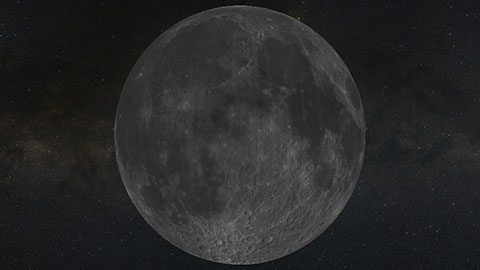
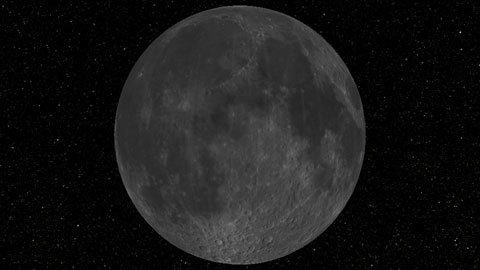
Updates to background and TIFF compression

diff --git a/scenes.html b/scenes.html
@@ -15,32 +15,38 @@
 
 <h2>The Data</h2>
 
-<p>Here are direct links to all of SCM TIFF data files used here:</p>
+<p>The panoramas use lossy JPEG compression internally. The panoramic SCM TIFFs used here may be downloaded here:</p>
 
 <blockquote><table>
-<tr><td><a href="http://cct.lsu.edu/~rkooima/data/Bluebonnet-0-L-256-5.tif">Bluebonnet-0-L-256-5.tif</a></td><td>1.0&thinsp;<small>GB</small></td></tr>
-<tr><td><a href="http://cct.lsu.edu/~rkooima/data/Bluebonnet-0-R-256-5.tif">Bluebonnet-0-R-256-5.tif</a></td><td>1.0&thinsp;<small>GB</small></td></tr>
-<tr><td><a href="http://cct.lsu.edu/~rkooima/data/Bluebonnet-3-L-256-5.tif">Bluebonnet-3-L-256-5.tif</a></td><td>1.0&thinsp;<small>GB</small></td></tr>
-<tr><td><a href="http://cct.lsu.edu/~rkooima/data/Bluebonnet-3-R-256-5.tif">Bluebonnet-3-R-256-5.tif</a></td><td>1.0&thinsp;<small>GB</small></td></tr>
-<tr><td><a href="http://cct.lsu.edu/~rkooima/data/DTM-254-7-N.tif">DTM-254-7-N.tif</a></td><td>6.6&thinsp;<small>GB</small></td></tr>
-<tr><td><a href="http://cct.lsu.edu/~rkooima/data/DTM-254-7.tif">DTM-254-7.tif</a></td><td>7.3&thinsp;<small>GB</small></td></tr>
-<tr><td><a href="http://cct.lsu.edu/~rkooima/data/LDSM-254-4.tif">LDSM-254-4.tif</a></td><td> 58&thinsp;<small>MB</small></td></tr>
-<tr><td><a href="http://cct.lsu.edu/~rkooima/data/LSU1-L-256-5.tif">LSU1-L-256-5.tif</a></td><td>933&thinsp;<small>MB</small></td></tr>
-<tr><td><a href="http://cct.lsu.edu/~rkooima/data/LSU1-R-256-5.tif">LSU1-R-256-5.tif</a></td><td>937&thinsp;<small>MB</small></td></tr>
-<tr><td><a href="http://cct.lsu.edu/~rkooima/data/Mini-RF-CP-254-7.tif">Mini-RF-CP-254-7.tif</a></td><td>355&thinsp;<small>MB</small></td></tr>
-<tr><td><a href="http://cct.lsu.edu/~rkooima/data/NAC_ROI_APOLLO11LOA-254-15.tif">NAC_ROI_APOLLO11LOA-254-15.tif</a></td><td>1.1&thinsp;<small>GB</small></td></tr>
-<tr><td><a href="http://cct.lsu.edu/~rkooima/data/NAC_ROI_APOLLO16HIA-254-15.tif">NAC_ROI_APOLLO16HIA-254-15.tif</a></td><td>3.1&thinsp;<small>GB</small></td></tr>
-<tr><td><a href="http://cct.lsu.edu/~rkooima/data/Tiger-Stadium-1-L-256-5.tif">Tiger-Stadium-1-L-256-5.tif</a></td><td>703&thinsp;<small>MB</small></td></tr>
-<tr><td><a href="http://cct.lsu.edu/~rkooima/data/Tiger-Stadium-1-R-256-5.tif">Tiger-Stadium-1-R-256-5.tif</a></td><td>689&thinsp;<small>MB</small></td></tr>
-<tr><td><a href="http://cct.lsu.edu/~rkooima/data/WAC-254-7.tif">WAC-254-7.tif</a></td><td>2.8&thinsp;<small>GB</small></td></tr>
+<tr><td>In a single RAR&hellip;</td><td><a href="https://www.cct.lsu.edu/~rkooima/data/Panoptic-Example-Panoramas.rar">Panoptic-Example-Panoramas.rar</a></td><td>(1.1&thinsp;<small>GB</small>)</td></tr>
+<tr><td>&nbsp;</td></tr>
+<tr><td>or individually&hellip;</td><td><a href="https://www.cct.lsu.edu/~rkooima/data/Bluebonnet-0-L-254-5-J.tif">Bluebonnet-0-L-254-5-J.tif</a></td><td>(208&thinsp;<small>MB</small>)</td></tr>
+<tr><td>                       </td><td><a href="https://www.cct.lsu.edu/~rkooima/data/Bluebonnet-0-R-254-5-J.tif">Bluebonnet-0-R-254-5-J.tif</a></td><td>(207&thinsp;<small>MB</small>)</td></tr>
+<tr><td>                       </td><td><a href="https://www.cct.lsu.edu/~rkooima/data/Bluebonnet-3-L-254-5-J.tif">Bluebonnet-3-L-254-5-J.tif</a></td><td>(194&thinsp;<small>MB</small>)</td></tr>
+<tr><td>                       </td><td><a href="https://www.cct.lsu.edu/~rkooima/data/Bluebonnet-3-R-254-5-J.tif">Bluebonnet-3-R-254-5-J.tif</a></td><td>(192&thinsp;<small>MB</small>)</td></tr>
+<tr><td>                       </td><td><a href="https://www.cct.lsu.edu/~rkooima/data/LSU1-L-254-5-J.tif">LSU1-L-254-5-J.tif</a></td><td>(160&thinsp;<small>MB</small>)</td></tr>
+<tr><td>                       </td><td><a href="https://www.cct.lsu.edu/~rkooima/data/LSU1-R-254-5-J.tif">LSU1-R-254-5-J.tif</a></td><td>(160&thinsp;<small>MB</small>)</td></tr>
+<tr><td>                       </td><td><a href="https://www.cct.lsu.edu/~rkooima/data/Tiger-Stadium-2-L-254-5-J.tif">Tiger-Stadium-2-L-254-5-J.tif</a></td><td>(84&thinsp;<small>MB</small>)</td></tr>
+<tr><td>                       </td><td><a href="https://www.cct.lsu.edu/~rkooima/data/Tiger-Stadium-2-R-254-5-J.tif">Tiger-Stadium-2-R-254-5-J.tif</a></td><td>(82&thinsp;<small>MB</small>)</td></tr>
 </table></blockquote>
 
-<p>Here are direct links to the CSV label definitions used here:</p>
+<p>The planetary data uses lossless ZIP compression internally. The planetary SCM TIFFs and CSVs used here may be downladed here:</p>
 
 <blockquote><table>
-<tr><td><a href="http://cct.lsu.edu/~rkooima/data/IAUMOON.csv">IAUMOON.csv</a></td></tr>
-<tr><td><a href="http://cct.lsu.edu/~rkooima/data/graticule.csv">graticule.csv</a></td></tr>
-<tr><td><a href="http://cct.lsu.edu/~rkooima/data/Apollo11.csv">Apollo11.csv</a></td></tr>
+<tr><td>In a single RAR&hellip;</td><td><a href="https://www.cct.lsu.edu/~rkooima/data/Panoptic-Example-Moon.rar">Panoptic-Example-Moon.rar (1.1&thinsp;<small>GB</small>)</a></td></tr>
+<tr><td>&nbsp;</td></tr>
+<tr><td>or individually&hellip;</td><td><a href="https://www.cct.lsu.edu/~rkooima/data/DTM-254-7-N.tif">DTM-254-7-N.tif</a></td><td>(6.6&thinsp;<small>GB</small>)</td></tr>
+<tr><td>                       </td><td><a href="https://www.cct.lsu.edu/~rkooima/data/DTM-254-7.tif">DTM-254-7.tif</a></td><td>(7.3&thinsp;<small>GB</small>)</td></tr>
+<tr><td>                       </td><td><a href="https://www.cct.lsu.edu/~rkooima/data/LDSM-254-4.tif">LDSM-254-4.tif</a></td><td>(58&thinsp;<small>MB</small>)</td></tr>
+<tr><td>                       </td><td><a href="https://www.cct.lsu.edu/~rkooima/data/Mini-RF-CP-254-7.tif">Mini-RF-CP-254-7.tif</a></td><td>(355&thinsp;<small>MB</small>)</td></tr>
+<tr><td>                       </td><td><a href="https://www.cct.lsu.edu/~rkooima/data/NAC_ROI_APOLLO11LOA-254-15.tif">NAC_ROI_APOLLO11LOA-254-15.tif</a></td><td>(1.1&thinsp;<small>GB</small>)</td></tr>
+<tr><td>                       </td><td><a href="https://www.cct.lsu.edu/~rkooima/data/NAC_ROI_APOLLO16HIA-254-15.tif">NAC_ROI_APOLLO16HIA-254-15.tif</a></td><td>(3.1&thinsp;<small>GB</small>)</td></tr>
+<tr><td>                       </td><td><a href="https://www.cct.lsu.edu/~rkooima/data/WAC-254-7.tif">WAC-254-7.tif</a></td><td>(2.8&thinsp;<small>GB</small>)</td></tr>
+<tr><td>                       </td><td><a href="https://www.cct.lsu.edu/~rkooima/data/IAUMOON.csv">IAUMOON.csv</a></td></tr>
+<tr><td>                       </td><td><a href="https://www.cct.lsu.edu/~rkooima/data/graticule.csv">graticule.csv</a></td></tr>
+<tr><td>                       </td><td><a href="https://www.cct.lsu.edu/~rkooima/data/Apollo11.csv">Apollo11.csv</a></td></tr>
+<tr><td>                       </td><td><a href="https://www.cct.lsu.edu/~rkooima/data/synaspan-254-4.tif">synaspan-254-4.tif</a></td><td>(134&thinsp;<small>MB</small>)</td></tr>
+<tr><td>
 </table></blockquote>
 
 <h2>The Scenes</h2>
@@ -49,8 +55,8 @@
 <tr><td><img class="ex" src="img/example0.jpg"></td><td>
 <b>Example 0</b> is the best scene for exploring the Moon and appreciating its beauty. The scene uses the vertex displacement shader to render a DTM as a height map. This DTM is a seamless merger of LOLA (which is good at the poles but bad at the equator) with GLD100 (good at the equator but bad at the poles). The WAC global mosaic is mapped onto this by the basic fragment shader. The DTM is normalized to a range of 1,728,240m to 1,748,170m to match the scale of the Moon one-to-one. The WAC is stretched a bit to brighten it.<pre class="small">
 &lt;scene name="Global" vert="<a href="https://github.com/rlk/scmview/blob/master/data/glsl/scm-displace.vert">glsl/scm-displace.vert</a>" frag="<a href="https://github.com/rlk/scmview/blob/master/data/glsl/scm-basic.frag">glsl/scm-basic.frag</a>"&gt;
-  &lt;image name="height" scm="<a href="http://cct.lsu.edu/~rkooima/data/DTM-254-7.tif">DTM-254-7.tif</a>" k0="1728240" k1="1748170"/&gt;
-  &lt;image name="color" scm="<a href="http://cct.lsu.edu/~rkooima/data/WAC-254-7.tif">WAC-254-7.tif</a>" k0="0.0" k1="3.0"/&gt;
+  &lt;image name="height" scm="<a href="https://www.cct.lsu.edu/~rkooima/data/DTM-254-7.tif">DTM-254-7.tif</a>" k0="1728240" k1="1748170"/&gt;
+  &lt;image name="color" scm="<a href="https://www.cct.lsu.edu/~rkooima/data/WAC-254-7.tif">WAC-254-7.tif</a>" k0="0.0" k1="3.0"/&gt;
 &lt;/scene&gt;
 </pre></td></tr>
 
@@ -58,10 +64,10 @@
 <b>Example 1</b> emphasizes terrain, using the DTM three ways. First it is used as a displacement map as in the Global example, second as a scalar field colorized by a color mapping shader, and third as a normal map which enables shaded relief. The complete <a href="http://planetarynames.wr.usgs.gov/Page/MOON/target">IAU lunar nomenclature</a> is drawn atop in opaque black.<pre class="small">
 &lt;scene name="Terrain" vert="<a href="https://github.com/rlk/scmview/blob/master/data/glsl/scm-displace.vert">glsl/scm-displace.vert</a>"
                       frag="<a href="https://github.com/rlk/scmview/blob/master/data/glsl/scm-relief-colormap-scalar.frag">glsl/scm-relief-colormap-scalar.frag</a>"
-                      label="<a href="http://cct.lsu.edu/~rkooima/data/IAUMOON.csv">IAUMOON.csv</a>" r="0" g="0" b="0" a="255"&gt;
-  &lt;image name="height" scm="<a href="http://cct.lsu.edu/~rkooima/data/DTM-254-7.tif">DTM-254-7.tif</a>" k0="1728240" k1="1748170"/&gt;
-  &lt;image name="normal" scm="<a href="http://cct.lsu.edu/~rkooima/data/DTM-254-7-N.tif">DTM-254-7-N.tif</a>"/&gt;
-  &lt;image name="scalar" scm="<a href="http://cct.lsu.edu/~rkooima/data/DTM-254-7.tif">DTM-254-7.tif</a>"/&gt;
+                      label="<a href="https://www.cct.lsu.edu/~rkooima/data/IAUMOON.csv">IAUMOON.csv</a>" r="0" g="0" b="0" a="255"&gt;
+  &lt;image name="height" scm="<a href="https://www.cct.lsu.edu/~rkooima/data/DTM-254-7.tif">DTM-254-7.tif</a>" k0="1728240" k1="1748170"/&gt;
+  &lt;image name="normal" scm="<a href="https://www.cct.lsu.edu/~rkooima/data/DTM-254-7-N.tif">DTM-254-7-N.tif</a>"/&gt;
+  &lt;image name="scalar" scm="<a href="https://www.cct.lsu.edu/~rkooima/data/DTM-254-7.tif">DTM-254-7.tif</a>"/&gt;
 &lt;/scene&gt;
 </pre></td></tr>
 
@@ -69,10 +75,10 @@
 <b>Example 2</b> shows shaded relief of a displaced surface as in the Terrain example, but this time with a separate color-mapped scalar data set applied. This is the Lunar Digital Slope Map, <a href="https://www.cct.lsu.edu/~rkooima/data/DTM-254-7-N.tif">LDSM</a>, a secondary product of the Laser Altimeter. A 10-degree graticule is drawn atop in opaque black.<pre class="small">
 &lt;scene name="LDSM" vert="<a href="https://github.com/rlk/scmview/blob/master/data/glsl/scm-displace.vert">glsl/scm-displace.vert</a>"
                    frag="<a href="https://github.com/rlk/scmview/blob/master/data/glsl/scm-relief-colormap-scalar.frag">glsl/scm-relief-colormap-scalar.frag</a>"
-                   label="<a href="http://cct.lsu.edu/~rkooima/data/graticule.csv">graticule.csv</a>" r="0" g="0" b="0" a="255"&gt
-  &lt;image name="height" scm="<a href="http://cct.lsu.edu/~rkooima/data/DTM-254-7.tif">DTM-254-7.tif</a>" k0="1728240" k1="1748170"/&gt;
-  &lt;image name="normal" scm="<a href="http://cct.lsu.edu/~rkooima/data/DTM-254-7-N.tif">DTM-254-7-N.tif</a>"/&gt;
-  &lt;image name="scalar" scm="<a href="http://cct.lsu.edu/~rkooima/data/LDSM-254-4.tif">LDSM-254-4.tif</a>" k0="0.0" k1="2.0"/&gt;
+                   label="<a href="https://www.cct.lsu.edu/~rkooima/data/graticule.csv">graticule.csv</a>" r="0" g="0" b="0" a="255"&gt
+  &lt;image name="height" scm="<a href="https://www.cct.lsu.edu/~rkooima/data/DTM-254-7.tif">DTM-254-7.tif</a>" k0="1728240" k1="1748170"/&gt;
+  &lt;image name="normal" scm="<a href="https://www.cct.lsu.edu/~rkooima/data/DTM-254-7-N.tif">DTM-254-7-N.tif</a>"/&gt;
+  &lt;image name="scalar" scm="<a href="https://www.cct.lsu.edu/~rkooima/data/LDSM-254-4.tif">LDSM-254-4.tif</a>" k0="0.0" k1="2.0"/&gt;
 &lt;/scene&gt;
 </pre></td></tr>
 
@@ -80,62 +86,69 @@
 <b>Example 3</b> works the same as a the LDSM example, but shows Mini-RF data instead. Mini-RF is particularly notable for its presentation of information deep in the craters near the poles, where the light of the sun can never reach. Mini-RF is <i>only</i> available near the poles, and the shader fills in gray shaded relief elsewhere.<pre class="small">
 &lt;scene name="MiniRF" vert="<a href="https://github.com/rlk/scmview/blob/master/data/glsl/scm-displace.vert">glsl/scm-displace.vert</a>"
                      frag="<a href="https://github.com/rlk/scmview/blob/master/data/glsl/scm-relief-colormap-scalar.frag">glsl/scm-relief-colormap-scalar.frag</a>"&gt;
-  &lt;image name="height" scm="<a href="http://cct.lsu.edu/~rkooima/data/DTM-254-7.tif">DTM-254-7.tif</a>" k0="1728240" k1="1748170"/&gt;
-  &lt;image name="normal" scm="<a href="http://cct.lsu.edu/~rkooima/data/DTM-254-7-N.tif">DTM-254-7-N.tif</a>"/&gt;
-  &lt;image name="scalar" scm="<a href="http://cct.lsu.edu/~rkooima/data/Mini-RF-CP-254-7.tif">Mini-RF-CP-254-7.tif</a>"/&gt;
+  &lt;image name="height" scm="<a href="https://www.cct.lsu.edu/~rkooima/data/DTM-254-7.tif">DTM-254-7.tif</a>" k0="1728240" k1="1748170"/&gt;
+  &lt;image name="normal" scm="<a href="https://www.cct.lsu.edu/~rkooima/data/DTM-254-7-N.tif">DTM-254-7-N.tif</a>"/&gt;
+  &lt;image name="scalar" scm="<a href="https://www.cct.lsu.edu/~rkooima/data/Mini-RF-CP-254-7.tif">Mini-RF-CP-254-7.tif</a>"/&gt;
 &lt;/scene&gt;
 </pre></td></tr>
 
 <tr><td><img class="ex" src="img/example4.jpg"></td><td>
 <b>Example 4</b> demonstrates the overlay of high-resolution data atop low-resolution, letting you explore detail in context. In this case, the low-resolution data is the DTM and WAC with a resolution around 100 meters per pixel, as above. The high-resolution data is a NAC view of the site of the landing of Apollo 11, with a resolution of around one half meter per pixel. Relevant features of the scene are labeled.<pre class="small">
 &lt;scene name="Apollo11" vert="<a href="https://github.com/rlk/scmview/blob/master/data/glsl/scm-displace.vert">glsl/scm-displace.vert</a>"
-                       frag="<a href="https://github.com/rlk/scmview/blob/master/data/glsl/scm-overlay.frag">glsl/scm-overlay.frag</a>" label="<a href="http://cct.lsu.edu/~rkooima/data/Apollo11.csv">Apollo11.csv</a>"&gt;
-  &lt;image name="height" scm="<a href="http://cct.lsu.edu/~rkooima/data/DTM-254-7.tif">DTM-254-7.tif</a>" k0="1728240" k1="1748170"/&gt;
-  &lt;image name="lower" scm="<a href="http://cct.lsu.edu/~rkooima/data/WAC-254-7.tif">WAC-254-7.tif</a>" k0="0.0" k1="3.0"/&gt;
-  &lt;image name="upper" scm="<a href="http://cct.lsu.edu/~rkooima/data/NAC_ROI_APOLLO11LOA-254-15.tif">NAC_ROI_APOLLO11LOA-254-15.tif</a>" k0="0.0" k1="1.65"/&gt;
+                       frag="<a href="https://github.com/rlk/scmview/blob/master/data/glsl/scm-overlay.frag">glsl/scm-overlay.frag</a>" label="<a href="https://www.cct.lsu.edu/~rkooima/data/Apollo11.csv">Apollo11.csv</a>"&gt;
+  &lt;image name="height" scm="<a href="https://www.cct.lsu.edu/~rkooima/data/DTM-254-7.tif">DTM-254-7.tif</a>" k0="1728240" k1="1748170"/&gt;
+  &lt;image name="lower" scm="<a href="https://www.cct.lsu.edu/~rkooima/data/WAC-254-7.tif">WAC-254-7.tif</a>" k0="0.0" k1="3.0"/&gt;
+  &lt;image name="upper" scm="<a href="https://www.cct.lsu.edu/~rkooima/data/NAC_ROI_APOLLO11LOA-254-15.tif">NAC_ROI_APOLLO11LOA-254-15.tif</a>" k0="0.0" k1="1.65"/&gt;
 &lt;/scene&gt;
 </pre></td></tr>
 
 <tr><td><img class="ex" src="img/example5.jpg"></td><td>
 <b>Example 5</b> is the most complex example in the set. It shows a NAC overlay of the site of Apollo 16 in the context of DTM and WAC, displayed with shaded relief. The Apollo 16 image is rich with human and rover tracks and gives stunning detail close-up. Viewed from afar, the shaded context provides the highest-fidelity and most information-dense presentation of the full globe of the moon currently available.<pre class="small">
 &lt;scene name="Apollo16" vert="<a href="https://github.com/rlk/scmview/blob/master/data/glsl/scm-displace.vert">glsl/scm-displace.vert</a>" frag="<a href="https://github.com/rlk/scmview/blob/master/data/glsl/scm-shaded-overlay.frag">glsl/scm-shaded-overlay.frag</a>"&gt;
-  &lt;image name="height" scm="<a href="http://cct.lsu.edu/~rkooima/data/DTM-254-7.tif">DTM-254-7.tif</a>" k0="1728240" k1="1748170"/&gt;
-  &lt;image name="normal" scm="<a href="http://cct.lsu.edu/~rkooima/data/DTM-254-7-N.tif">DTM-254-7-N.tif</a>"/&gt;
-  &lt;image name="lower" scm="<a href="http://cct.lsu.edu/~rkooima/data/WAC-254-7.tif">WAC-254-7.tif</a>" k0="0.0" k1="4.0"/&gt;
-  &lt;image name="upper" scm="<a href="http://cct.lsu.edu/~rkooima/data/NAC_ROI_APOLLO16HIA-254-15.tif">NAC_ROI_APOLLO16HIA-254-15.tif</a>" k0="0.0" k1="2.0"/&gt;
+  &lt;image name="height" scm="<a href="https://www.cct.lsu.edu/~rkooima/data/DTM-254-7.tif">DTM-254-7.tif</a>" k0="1728240" k1="1748170"/&gt;
+  &lt;image name="normal" scm="<a href="https://www.cct.lsu.edu/~rkooima/data/DTM-254-7-N.tif">DTM-254-7-N.tif</a>"/&gt;
+  &lt;image name="lower" scm="<a href="https://www.cct.lsu.edu/~rkooima/data/WAC-254-7.tif">WAC-254-7.tif</a>" k0="0.0" k1="4.0"/&gt;
+  &lt;image name="upper" scm="<a href="https://www.cct.lsu.edu/~rkooima/data/NAC_ROI_APOLLO16HIA-254-15.tif">NAC_ROI_APOLLO16HIA-254-15.tif</a>" k0="0.0" k1="2.0"/&gt;
 &lt;/scene&gt;
 </pre></td></tr>
 
 <tr><td><img class="ex" src="img/example6.jpg"></td><td>
 <b>Example 6</b> is an omnistereoscopic panorama of the cypress-tupelo forest in the Bluebonnet swamp. The scene includes one color image for each eye, with the channel mapping given explicitly. The zooming vertex shader enables magnification, allowing two gigapixels of data per eye to be explored.<pre class="small">
 &lt;scene name="Bluebonnet0" vert="<a href="https://github.com/rlk/scmview/blob/master/data/glsl/scm-zoom.vert">glsl/scm-zoom.vert</a>" frag="<a href="https://github.com/rlk/scmview/blob/master/data/glsl/scm-basic.frag">glsl/scm-basic.frag</a>"&gt;
-  &lt;image name="color" scm="<a href="http://cct.lsu.edu/~rkooima/data/Bluebonnet-0-L-256-5.tif">Bluebonnet-0-L-256-5.tif</a>" channel="0"/&gt;
-  &lt;image name="color" scm="<a href="http://cct.lsu.edu/~rkooima/data/Bluebonnet-0-R-256-5.tif">Bluebonnet-0-R-256-5.tif</a>" channel="1"/&gt;
+  &lt;image name="color" scm="<a href="https://www.cct.lsu.edu/~rkooima/data/Bluebonnet-0-L-254-5-J.tif">Bluebonnet-0-L-254-5-J.tif</a>" channel="0"/&gt;
+  &lt;image name="color" scm="<a href="https://www.cct.lsu.edu/~rkooima/data/Bluebonnet-0-R-254-5-J.tif">Bluebonnet-0-R-254-5-J.tif</a>" channel="1"/&gt;
 &lt;/scene&gt;
 </pre></td></tr>
 
 <tr><td><img class="ex" src="img/example7.jpg"></td><td>
 <b>Example 7</b> is another high-resolution omnistereoscopic panorama captured at the Bluebonnet swamp.<pre class="small">
 &lt;scene name="Bluebonnet3" vert="<a href="https://github.com/rlk/scmview/blob/master/data/glsl/scm-zoom.vert">glsl/scm-zoom.vert</a>" frag="<a href="https://github.com/rlk/scmview/blob/master/data/glsl/scm-basic.frag">glsl/scm-basic.frag</a>"&gt;
-  &lt;image name="color" scm="<a href="http://cct.lsu.edu/~rkooima/data/Bluebonnet-3-L-256-5.tif">Bluebonnet-3-L-256-5.tif</a>" channel="0"/&gt;
-  &lt;image name="color" scm="<a href="http://cct.lsu.edu/~rkooima/data/Bluebonnet-3-R-256-5.tif">Bluebonnet-3-R-256-5.tif</a>" channel="1"/&gt;
+  &lt;image name="color" scm="<a href="https://www.cct.lsu.edu/~rkooima/data/Bluebonnet-3-L-254-5-J.tif">Bluebonnet-3-L-254-5-J.tif</a>" channel="0"/&gt;
+  &lt;image name="color" scm="<a href="https://www.cct.lsu.edu/~rkooima/data/Bluebonnet-3-R-254-5-J.tif">Bluebonnet-3-R-254-5-J.tif</a>" channel="1"/&gt;
 &lt;/scene&gt;
 </pre></td></tr>
 
 <tr><td><img class="ex" src="img/example8.jpg"></td><td>
 <b>Example 8</b> is an omnistereoscopic panorama captured on the campus of Louisiana State University. This image may be challenging to view, as the sun shines upon one eye but not the other. Also, small discrepancies in the panoramic stitching result in a number of false 3D artifacts.<pre class="small">
 &lt;scene name="LSU1" vert="<a href="https://github.com/rlk/scmview/blob/master/data/glsl/scm-zoom.vert">glsl/scm-zoom.vert</a>" frag="<a href="https://github.com/rlk/scmview/blob/master/data/glsl/scm-basic.frag">glsl/scm-basic.frag</a>"&gt;
-  &lt;image name="color" scm="<a href="http://cct.lsu.edu/~rkooima/data/LSU1-L-256-5.tif">LSU1-L-256-5.tif</a>" channel="0"/&gt;
-  &lt;image name="color" scm="<a href="http://cct.lsu.edu/~rkooima/data/LSU1-R-256-5.tif">LSU1-R-256-5.tif</a>" channel="1"/&gt;
+  &lt;image name="color" scm="<a href="https://www.cct.lsu.edu/~rkooima/data/LSU1-L-254-5-J.tif">LSU1-L-254-5-J.tif</a>" channel="0"/&gt;
+  &lt;image name="color" scm="<a href="https://www.cct.lsu.edu/~rkooima/data/LSU1-R-254-5-J.tif">LSU1-R-254-5-J.tif</a>" channel="1"/&gt;
 &lt;/scene&gt;
 </pre></td></tr>
 
 <tr><td><img class="ex" src="img/example9.jpg"></td><td>
 <b>Example 9</b> is an omnistereoscopic panorama captured in Tiger Stadium on the campus of Louisiana State University. Note the men changing lightbulbs.<pre class="small">
 &lt;scene name="Tiger2" vert="<a href="https://github.com/rlk/scmview/blob/master/data/glsl/scm-zoom.vert">glsl/scm-zoom.vert</a>" frag="<a href="https://github.com/rlk/scmview/blob/master/data/glsl/scm-basic.frag">glsl/scm-basic.frag</a>"&gt;
-  &lt;image name="color" scm="<a href="http://cct.lsu.edu/~rkooima/data/Tiger-Stadium-2-L-256-5.tif">Tiger-Stadium-2-L-256-5.tif</a>" channel="0"/&gt;
-  &lt;image name="color" scm="<a href="http://cct.lsu.edu/~rkooima/data/Tiger-Stadium-2-R-256-5.tif">Tiger-Stadium-2-R-256-5.tif</a>" channel="1"/&gt;
+  &lt;image name="color" scm="<a href="https://www.cct.lsu.edu/~rkooima/data/Tiger-Stadium-2-L-254-5-J.tif">Tiger-Stadium-2-L-254-5-J.tif</a>" channel="0"/&gt;
+  &lt;image name="color" scm="<a href="https://www.cct.lsu.edu/~rkooima/data/Tiger-Stadium-2-R-254-5-J.tif">Tiger-Stadium-2-R-254-5-J.tif</a>" channel="1"/&gt;
 &lt;/scene&gt;
+</pre></td></tr>
+
+<tr><td><img class="ex" src="img/synaspan.jpg"></td><td>
+<b>The background</b> of the planetary examples is a rendering of the <a href="https://github.com/rlk/synaspan">Synthetic All-Sky Panorama</a>.<pre class="small">
+  &ltscene name="MilkyWay" vert="<a href="https://github.com/rlk/scmview/blob/master/data/glsl/scm-basic.vert">glsl/scm-basic.vert</a>" frag="<a href="https://github.com/rlk/scmview/blob/master/data/glsl/scm-basic.frag">glsl/scm-basic.frag</a>"&gt;
+    &ltimage name="color" scm="<a href="https://www.cct.lsu.edu/~rkooima/data/synaspan-254-4.tif">synaspan-254-4.tif</a>" k0="0.0" k1="1.0"/&gt;
+  &lt/scene&gt;
 </pre></td></tr>
 
 </table>

diff --git a/index.html b/index.html
@@ -24,14 +24,16 @@
 <p>These pre-compiled binaries statically link the Oculus SDK:</p>
 
 <ul>
-<li><a href="http://cct.lsu.edu/~rkooima/panoptic-w32/panoptic.exe">Windows</a></li>
-<li><a href="http://cct.lsu.edu/~rkooima/panoptic-osk/panoptic">MacOS X</a></li>
-<li><a href="http://cct.lsu.edu/~rkooima/panoptic-lin/panoptic">Linux 64-bit</a></li>
+<li><a href="https://www.cct.lsu.edu/~rkooima/panoptic-w32/panoptic.exe">Windows</a></li>
+<li><a href="https://www.cct.lsu.edu/~rkooima/panoptic-osk/panoptic">MacOS X</a></li>
+<li><a href="https://www.cct.lsu.edu/~rkooima/panoptic-lin/panoptic">Linux 64-bit</a></li>
 </ul>
 
-<h2><a href="scenes.html">Getting Data</a></h2>
+<p>Installation is trivial. The executable is self-contained. <b>Just place it in the same directory as the image data you download next.</b> This will ensure that it can find the data when needed.</p>
 
-<p><a href="scenes.html">Ten example scenes definitions</a> are bundled with Panoptic. The data used by these definitions must be downloaded separately. Panoptic is a tool for browsing very large images, thus several gigabytes of downloads are necessary to get the full effect of all ten examples. I suggest starting with Bluebonnet, shown above (<a href="http://cct.lsu.edu/~rkooima/data/Bluebonnet-0-L-256-5.tif">left eye 1&thinsp;<small>GB</small></a>, <a href="http://cct.lsu.edu/~rkooima/data/Bluebonnet-0-R-256-5.tif">right eye 1&thinsp;<small>GB</small></a>). Then work your way over to the Moon (<a href="http://cct.lsu.edu/~rkooima/data/WAC-254-7.tif">surface 2.8&thinsp;<small>GB</small></a>, <a href="http://cct.lsu.edu/~rkooima/data/DTM-254-7.tif">terrain 7.3&thinsp;<small>GB</small></a>).</p>
+<h2><a href="scenes.html">Getting Images</a></h2>
+
+<p><a href="scenes.html">Ten example scenes definitions</a> are bundled with Panoptic. The data used by these definitions must be downloaded separately. Panoptic is a tool for browsing very large images, so its inputs are large. Several gigabytes of downloads are necessary to get the full effect of all ten examples. I suggest starting with Bluebonnet, shown above (<a href="https://www.cct.lsu.edu/~rkooima/data/Bluebonnet-0-L-254-5-J.tif">left eye 208&thinsp;<small>MB</small></a>, <a href="https://www.cct.lsu.edu/~rkooima/data/Bluebonnet-0-R-254-5-J.tif">right eye 207&thinsp;<small>MB</small></a>). Then work your way over to the Moon (<a href="https://www.cct.lsu.edu/~rkooima/data/WAC-254-7.tif">surface 2.8&thinsp;<small>GB</small></a>, <a href="https://www.cct.lsu.edu/~rkooima/data/DTM-254-7.tif">terrain 7.3&thinsp;<small>GB</small></a>).</p>
 
 <h2><a href="config.html">More Information</a></h2>
 
